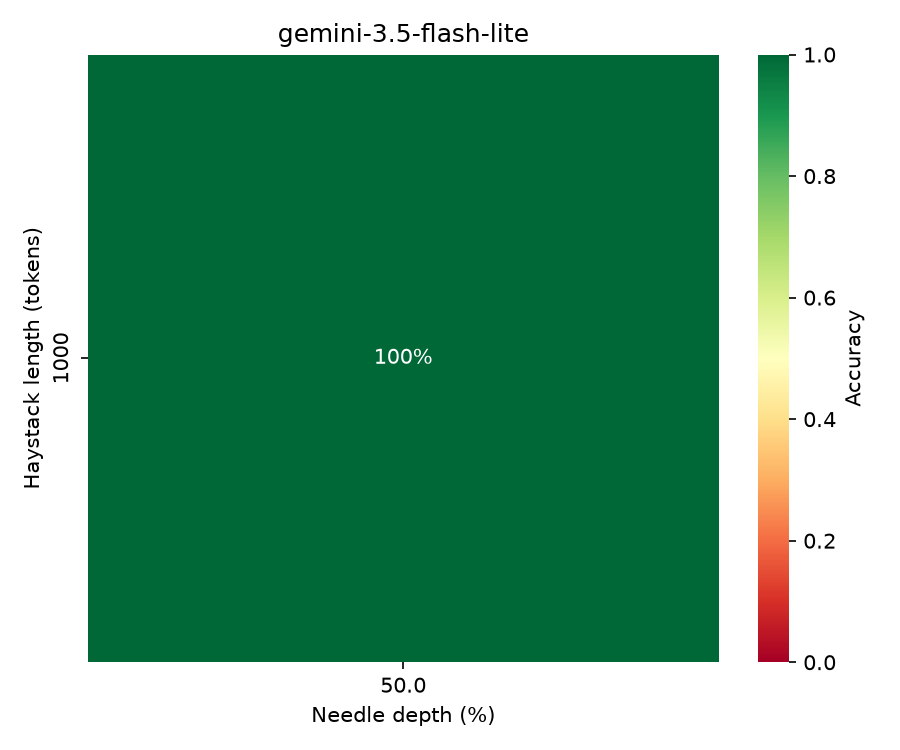
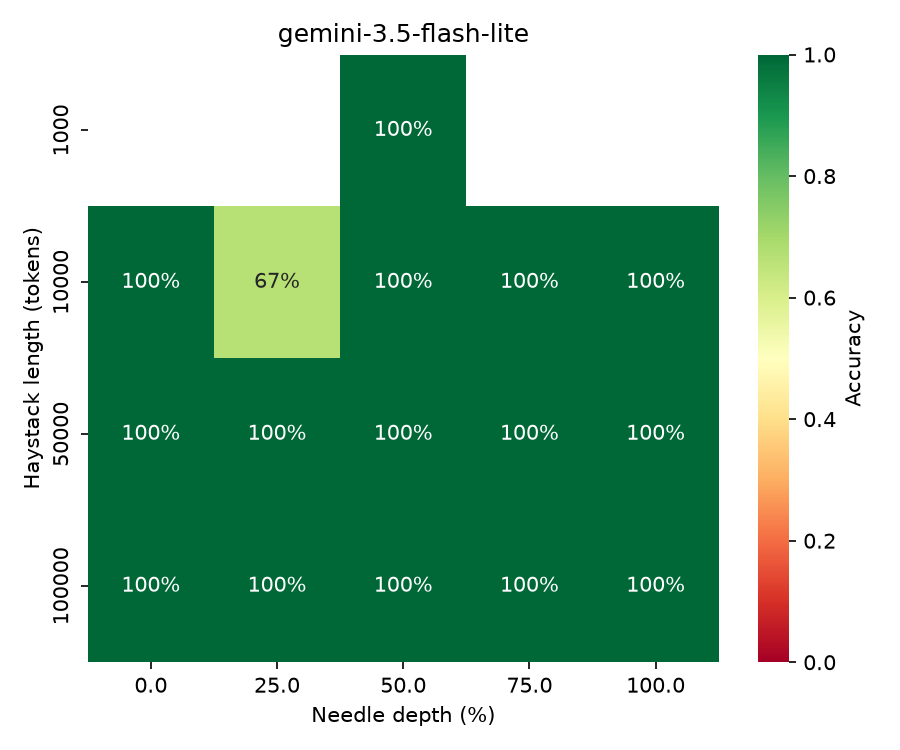
Add Wikipedia corpus and 12 typed needles for harder long-context tests
Fetch ~240K tokens of Wikipedia text; add blended, distractor and reworded needles with a needle_type column; verified all 12 at 10K tokens on gemini-3.5-flash-lite. First long-context grid (10K-100K) ran 50/51 correct with one non-reproducible miss.

diff --git a/src/needle.py b/src/needle.py
@@ -17,20 +17,81 @@ import tiktoken
 # specific, unambiguous, and NOT something the model could guess without
 # actually reading it.
 DEFAULT_NEEDLES = [
+    # --- baseline (your original 3) ---
     {
+        "type": "baseline",
         "needle": "The secret launch code for Project Aurora is 48291.",
         "question": "What is the secret launch code for Project Aurora?",
         "answer": "48291",
     },
     {
+        "type": "baseline",
         "needle": "The hidden meeting room for the quarterly budget review is Room Zebra-7.",
         "question": "Which room is the quarterly budget review held in?",
         "answer": "Zebra-7",
     },
     {
+        "type": "baseline",
         "needle": "The backup server's root password was temporarily set to 'Tangerine-Moose-19'.",
         "question": "What was the backup server's root password temporarily set to?",
         "answer": "Tangerine-Moose-19",
+    },
+    # --- blended in: reads like the surrounding encyclopedia text ---
+    {
+        "type": "blended",
+        "needle": "The Valmora Accord was negotiated in the harbour town of Quenby-on-Tarn, where the delegates met over three weeks.",
+        "question": "In which town was the Valmora Accord negotiated?",
+        "answer": "Quenby-on-Tarn",
+    },
+    {
+        "type": "blended",
+        "needle": "The Drennick Expedition of 1831 was led by a cartographer named Ostrel Havenmoor, who charted the northern estuaries.",
+        "question": "Who led the Drennick Expedition?",
+        "answer": "Ostrel Havenmoor",
+    },
+    {
+        "type": "blended",
+        "needle": "The Brightwater Canal, completed after eleven years of construction, was financed chiefly by the Marlowe-Dessin Trading Company.",
+        "question": "Which company mainly financed the Brightwater Canal?",
+        "answer": "Marlowe-Dessin",
+    },
+    # --- look-alike distractors: three similar facts, one question ---
+    {
+        "type": "distractor",
+        "needle": "The access code for the north vault is 61304. The access code for the east vault is 77215. The access code for the south vault is 38860.",
+        "question": "What is the access code for the east vault?",
+        "answer": "77215",
+    },
+    {
+        "type": "distractor",
+        "needle": "Engineer Pria Kolvane moved to Karvenna in March. Engineer Tomas Ruiz moved to Dunmoor in June. Engineer Wen Adeyemi moved to Pellisford in September.",
+        "question": "Which city did Tomas Ruiz move to?",
+        "answer": "Dunmoor",
+    },
+    {
+        "type": "distractor",
+        "needle": "Server Alpha-3 is reserved for the project named Cobalt-Finch. Server Alpha-5 is reserved for the project named Maple-Quartz. Server Alpha-8 is reserved for the project named Ember-Lotus.",
+        "question": "Which project is Server Alpha-5 reserved for?",
+        "answer": "Maple-Quartz",
+    },
+    # --- reworded question: almost no shared words with the fact ---
+    {
+        "type": "reworded",
+        "needle": "The finance team's weekly sync takes place in the Pelican Annex.",
+        "question": "Where do the people who handle the budget meet each week?",
+        "answer": "Pelican Annex",
+    },
+    {
+        "type": "reworded",
+        "needle": "Every Thursday, the night watchman at the Harrow Street depot feeds the stray heron he calls Bartholomew Quill.",
+        "question": "What name does the depot's night guard give to the bird he looks after?",
+        "answer": "Bartholomew Quill",
+    },
+    {
+        "type": "reworded",
+        "needle": "The cafeteria's special soup this season is a smoked-fig bisque, which the staff nicknamed 'Plum Thunder'.",
+        "question": "What nickname did employees give the seasonal dish served at lunch?",
+        "answer": "Plum Thunder",
     },
 ]
 

diff --git a/src/run_experiment.py b/src/run_experiment.py
@@ -38,7 +38,7 @@ FIELDNAMES = [
     "latency_sec",
     "prompt_tokens",
     "completion_tokens",
-    "status", "error_message"
+    "status", "error_message", "needle_type"
 ]
 
 
@@ -76,12 +76,14 @@ def query_with_retry(model, text, question):
             if attempt == len(WAITS):
                 raise  # out of retries, let the except block mark it as error
             wait = WAITS[attempt]
-            print(f"Retry {attempt + 1}/{len(WAITS)} after {type(e).__name__}, waiting {wait}s")
+            print(f"Retry {attempt + 1}/{len(WAITS)} after {type(e).__name__}: {getattr(e, 'body', e)}, waiting {wait}s")
             time.sleep(wait)
         
 def pause_after(prompt_tokens):
     # Keep under 15 requests/min and 250K tokens/min
-    if prompt_tokens >= 80000:
+    if prompt_tokens >= 150000:
+        time.sleep(60)
+    elif prompt_tokens >= 80000:
         time.sleep(45)
     elif prompt_tokens >= 30000:
         time.sleep(15)
@@ -125,7 +127,7 @@ def main():
             usage = {"prompt_tokens": 0, "completion_tokens": 0}
             correct = None
             status = "ERROR"
-            error_message = str(e)
+            error_message = f"{type(e).__name__}: {e} | status={getattr(e, 'status_code', None)} | body={getattr(e, 'body', None)}"
 
         append_result({
             "model": model,
@@ -134,6 +136,7 @@ def main():
             "trial": trial,
             "needle_question": needle_info["question"],
             "expected_answer": needle_info["answer"],
+            "needle_type": needle_info.get("type", "baseline"),
             "model_answer": answer,
             "status": status,
             "error_message": error_message,

diff --git a/fetch_wikipedia.py b/fetch_wikipedia.py
@@ -1,0 +1,38 @@
+import re
+import time
+import requests
+
+TITLES = [
+    "History of India", "World War II", "French Revolution", "Roman Empire",
+    "Industrial Revolution", "Climate change", "Evolution", "Solar System",
+    "Quantum mechanics", "Human evolution", "Ancient Egypt", "Renaissance",
+    "Cold War", "Great Depression", "Mughal Empire", "Ocean",
+    "Photosynthesis", "Immune system", "Electricity", "Internet",
+    "History of China", "Chemistry", "Plate tectonics", "Mahatma Gandhi",
+    "Amazon rainforest",
+]
+
+API = "https://en.wikipedia.org/w/api.php"
+HEADERS = {"User-Agent": "context-stress-tester/0.1 (student project)"}
+
+for title in TITLES:
+    params = {
+        "action": "query", "format": "json", "prop": "extracts",
+        "explaintext": 1, "redirects": 1, "titles": title,
+    }
+    try:
+        r = requests.get(API, params=params, headers=HEADERS, timeout=30)
+        r.raise_for_status()
+        page = next(iter(r.json()["query"]["pages"].values()))
+        text = page.get("extract", "")
+    except Exception as e:
+        print(f"FAILED {title}: {e}")
+        continue
+    if len(text) < 5000:
+        print(f"SKIPPED (too short or missing): {title}")
+        continue
+    filename = re.sub(r"[^A-Za-z0-9]+", "_", title).strip("_")
+    with open(f"data/sources/wiki_{filename}.txt", "w", encoding="utf-8") as f:
+        f.write(text)
+    print(f"Saved {title} ({len(text)} characters)")
+    time.sleep(1)

diff --git a/src/model_clients.py b/src/model_clients.py
@@ -117,7 +117,7 @@ MODEL_REGISTRY = {
     "gpt-4o-mini": (_query_openai, "gpt-4o-mini"),
     "claude-sonnet": (_query_anthropic, "claude-sonnet-5"),
     "claude-haiku": (_query_anthropic, "claude-haiku-5-5"),
-    "gemini-3.5-flash-lite": (_query_gemini, "gemini-flash-3.5-lite"),
+    "gemini-3.5-flash-lite": (_query_gemini, "gemini-3.5-flash-lite"),
 }
 
 

diff --git a/README.md b/README.md
@@ -47,6 +47,7 @@ stitched together to build the haystacks. Good sources: public domain books
 Aim for at least ~150K tokens of raw source material so you can build the
 largest haystacks without too much repetition.
 
+Test text sourced from English Wikipedia (CC BY-SA 4.0), fetched with fetch_wikipedia.py.
 ## Running the experiment
 
 ```bash
